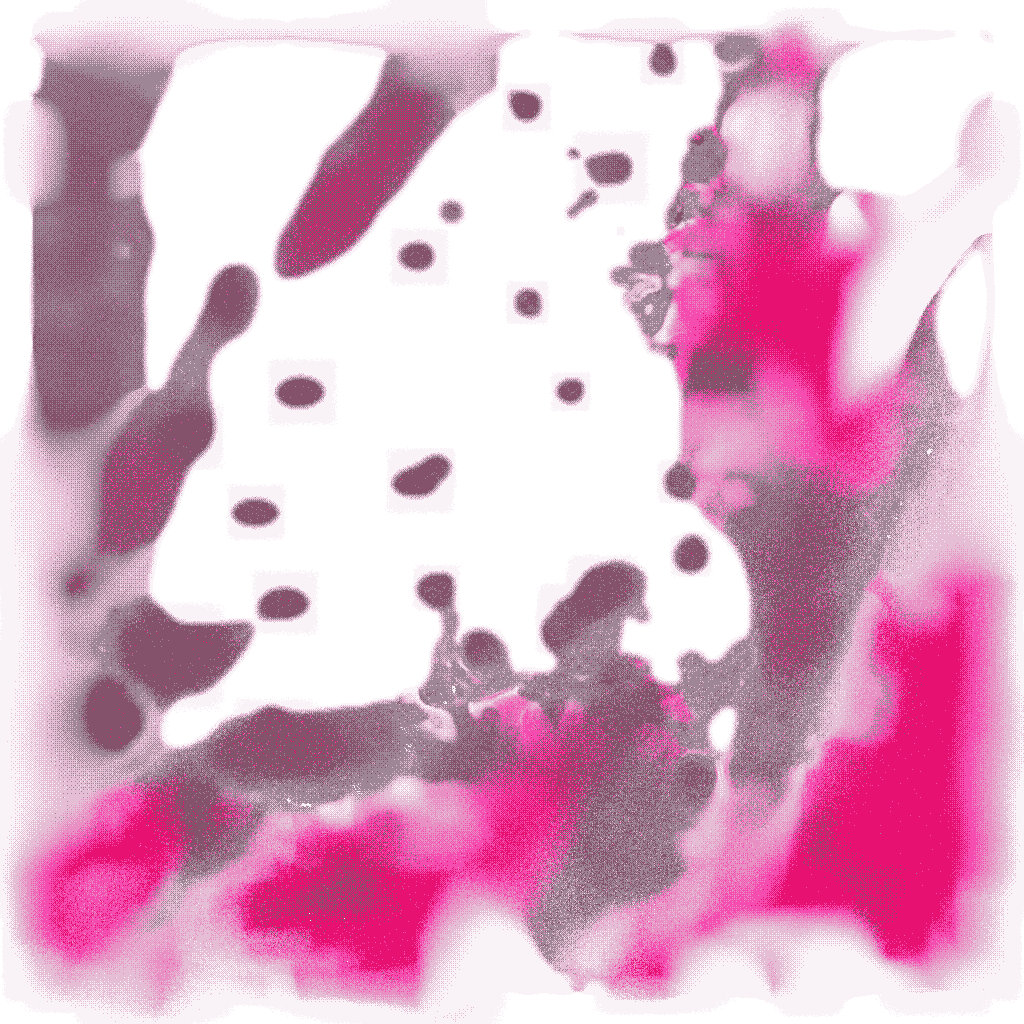
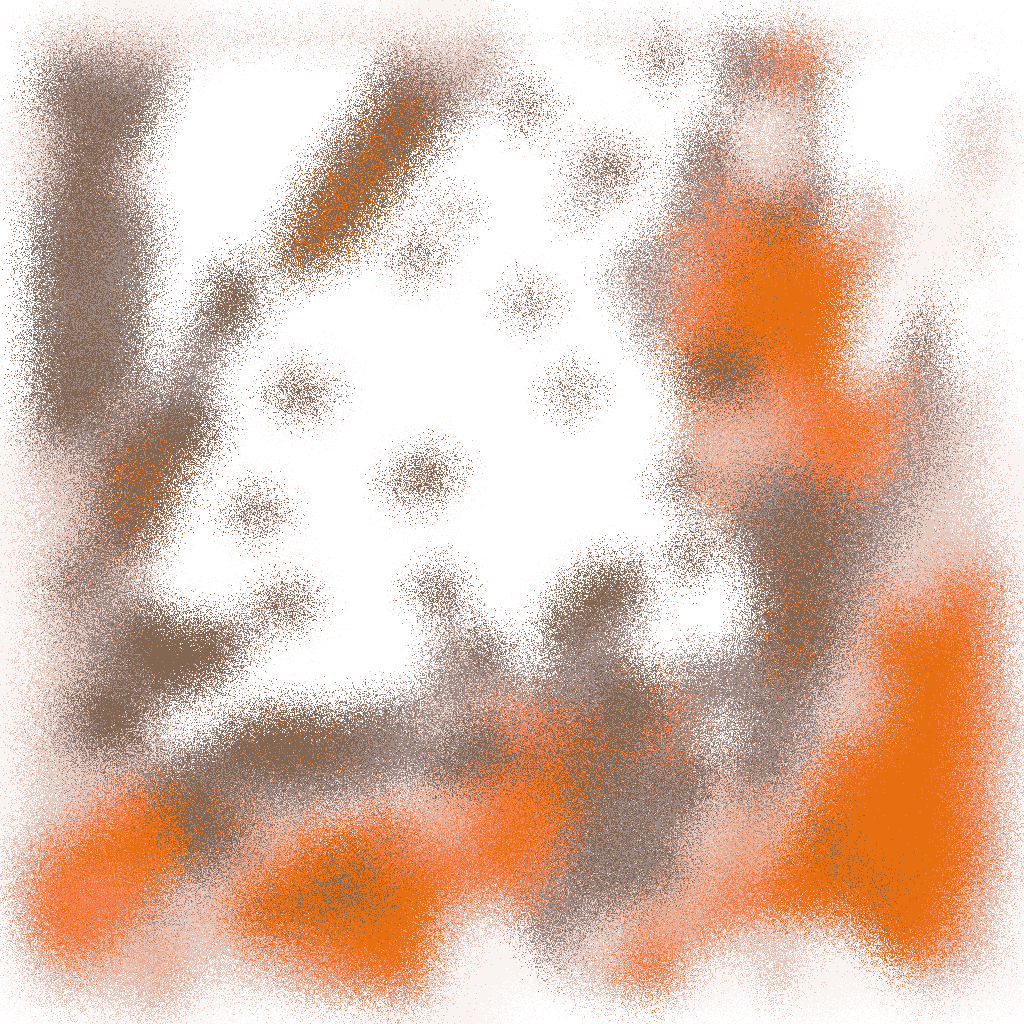
edit bg images

diff --git a/style.css b/style.css
@@ -217,7 +217,7 @@ body {
   top: 0; left: 0; bottom: 0; right: 0;
   width: 100%;
   height: 100%;
-  /* filter: blur(24px); */
+  filter: blur(12px);
   /* opacity: 90%; */
   /* mix-blend-mode: hard-light; */
 }
@@ -238,7 +238,7 @@ body {
   /* z-index:7; */
   /* background-color: #999; */
   /* border-radius: 22px; */
-  background:linear-gradient(0deg, #33333325 0%, #33333300 100%);
+  background:linear-gradient(0deg, #e2e2e255 0%, #33333300 100%);
 
 }
 .projects, .description{
